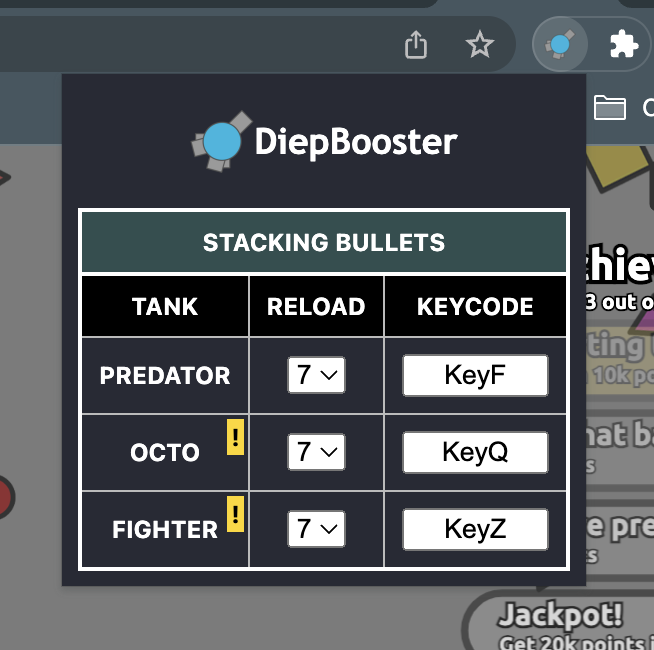
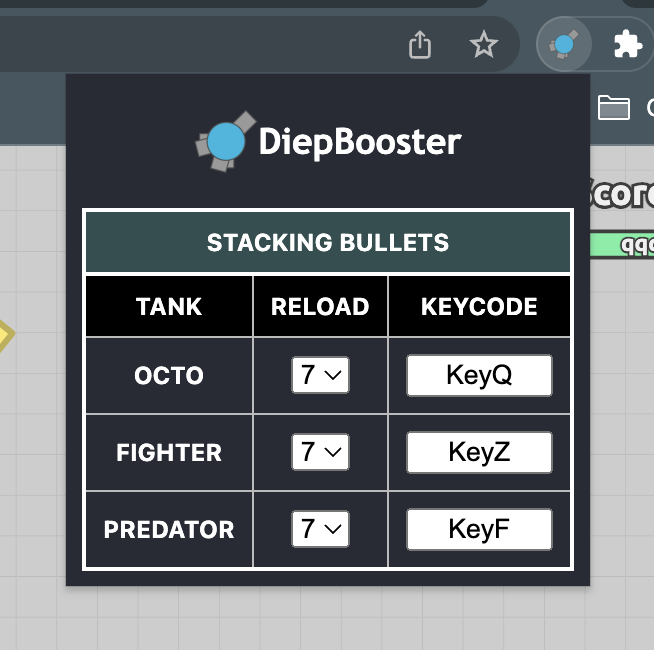
remove warnings

diff --git a/popup/components/Table/TableItem.js b/popup/components/Table/TableItem.js
@@ -4,18 +4,7 @@ import { setStorage } from '../../../storageService.js';
 
 const tableItemStyles = `
   padding: 8px;
-  position: relative;
   border: 1px solid #bbbbbb;
-`;
-
-const warningStyles = `
-  top: 0px;
-  right: 0px;
-  margin: 2px;
-  padding: 2px;
-  color: black;
-  position: absolute;
-  background-color: gold;
 `;
 
 const inputStyles = `
@@ -23,12 +12,6 @@ const inputStyles = `
   text-align: center;
   caret-color: transparent;
 `;
-
-const warningTanks = {
-  OCTO: true,
-  FIGHTER: true,
-  PREDATOR: false,
-};
 
 const TableItem = (tank, storage) => {
   const { keyCode, bulletReload } = storage[tank];
@@ -57,9 +40,7 @@ const TableItem = (tank, storage) => {
 
   return (
     c('tr', {},
-      c('th', { t: tank, s: tableItemStyles },
-         warningTanks[tank] && c('span', { t: '!', s: warningStyles, title: 'Possible report!' }),
-      ),
+      c('th', { t: tank, s: tableItemStyles }),
       c('th', { s: tableItemStyles },
         c('select', { onchange: onSelectChange, s: 'cursor: pointer' },
           ...Array.from({ length: 8 }, (_, i) =>

diff --git a/popup/components/Table/Table.js b/popup/components/Table/Table.js
@@ -38,9 +38,9 @@ const Table = (async () => {
           c('th', { t: 'RELOAD', s: tableItemStyles }),
           c('th', { t: 'KEYCODE', s: tableItemStyles }),
         ),
-        TableItem('PREDATOR', storage),
         TableItem('OCTO', storage),
         TableItem('FIGHTER', storage),
+        TableItem('PREDATOR', storage),
       ),
     )
   )
